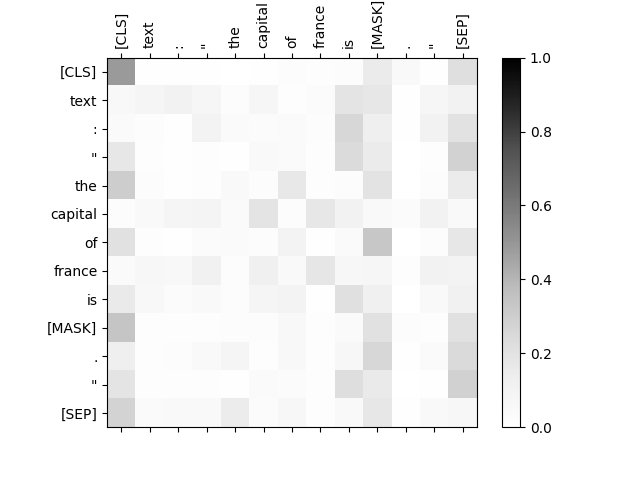
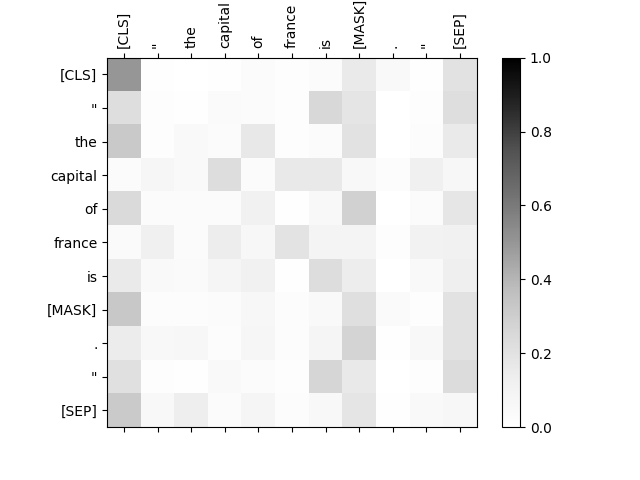
updates

diff --git a/mask.py b/mask.py
@@ -2,7 +2,6 @@ import sys
 import tensorflow as tf
 import numpy as np
 import matplotlib.pyplot as plt
-
 from PIL import Image, ImageDraw, ImageFont
 from transformers import AutoTokenizer, TFBertForMaskedLM
 
@@ -39,7 +38,7 @@ def main():
         print(text.replace(tokenizer.mask_token, tokenizer.decode([token])))
 
     # Visualize attentions
-    visualize_attentions(tokenizer.convert_ids_to_tokens(inputs['input_ids'][0]), result.attentions)
+    visualize_attentions(inputs.tokens(), result.attentions)
 
 
 def get_mask_token_index(mask_token_id, inputs):
@@ -47,24 +46,26 @@ def get_mask_token_index(mask_token_id, inputs):
     Return the index of the token with the specified `mask_token_id`, or
     `None` if not present in the `inputs`.
     """
-    input_ids = inputs['input_ids'].numpy()[0]  # Convert EagerTensor to numpy array
-    if mask_token_id in input_ids:
-        return list(input_ids).index(mask_token_id)
+    input_ids = inputs['input_ids'].numpy()[0]
+    input_ids_list = input_ids.tolist()
+    # Find the index of the mask token ID
+    if mask_token_id in input_ids_list:
+        return input_ids_list.index(mask_token_id)
     else:
         return None
 
 
 def get_color_for_attention_score(score: float) -> tuple:
+    # Ensure the score is within the valid range
+    if not (0 <= score <= 1):
+        raise ValueError("Attention score must be between 0 and 1.")
 
-        # Ensure the score is within the valid range
-        if not (0 <= score <= 1):
-            raise ValueError("Attention score must be between 0 and 1.")
+    # Calculate the gray value
+    gray_value = int(score * 255)
 
-        # Calculate the gray value
-        gray_value = int(score * 255)
+    # Return the RGB color tuple
+    return (gray_value, gray_value, gray_value)
 
-        # Return the RGB color tuple
-        return (gray_value, gray_value, gray_value)
 
 
 def visualize_attentions(tokens, attentions):
@@ -77,32 +78,31 @@ def visualize_attentions(tokens, attentions):
     include both the layer number (starting count from 1) and head number
     (starting count from 1).
     """
+    # TODO: Update this function to produce diagrams for all layers and heads.
+
+    generate_diagram(
+        1,
+        1,
+        tokens,
+        attentions[0][0][0]
+    )
     num_layers = len(attentions)
     num_heads = len(attentions[0][0][0])  # Number of attention heads in each layer
 
     for layer in range(num_layers):
         for head in range(num_heads):
-            # Get the attention scores for this layer and head
             attention_scores = attentions[layer][0][head].numpy()
-
-            # Generate the diagram
             fig, ax = plt.subplots()
             cax = ax.matshow(attention_scores, cmap='Greys', vmin=0, vmax=1)
             fig.colorbar(cax)
 
-            # Set axis labels
             ax.set_xticks(np.arange(len(tokens)))
             ax.set_yticks(np.arange(len(tokens)))
             ax.set_xticklabels(tokens)
             ax.set_yticklabels(tokens)
 
-            # Rotate tick labels
             plt.xticks(rotation=90)
-
-            # Add title
             ax.set_title(f'Layer {layer + 1}, Head {head + 1}')
-
-            # Save the diagram
             plt.savefig(f'attention_layer_{layer + 1}_head_{head + 1}.png')
             plt.close()
 
